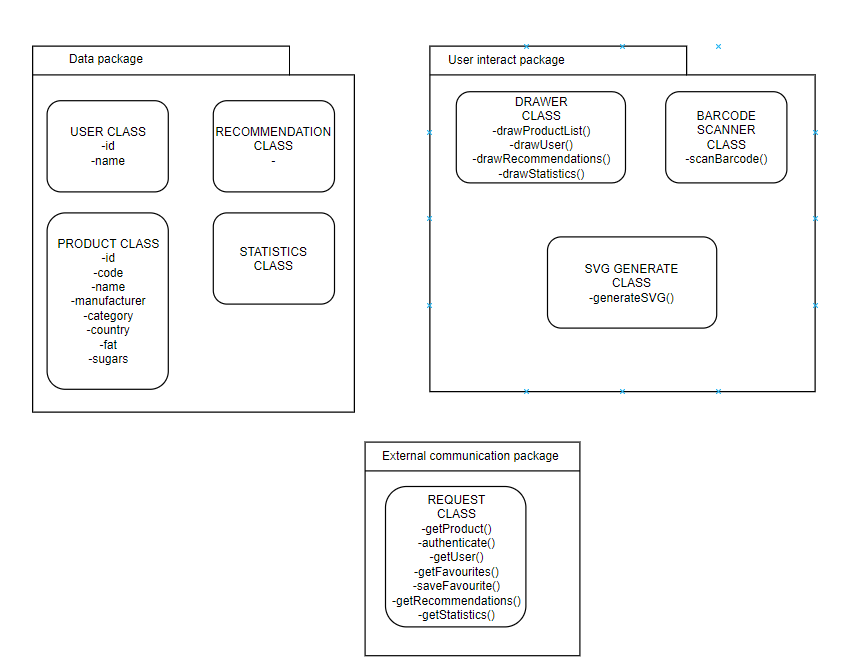
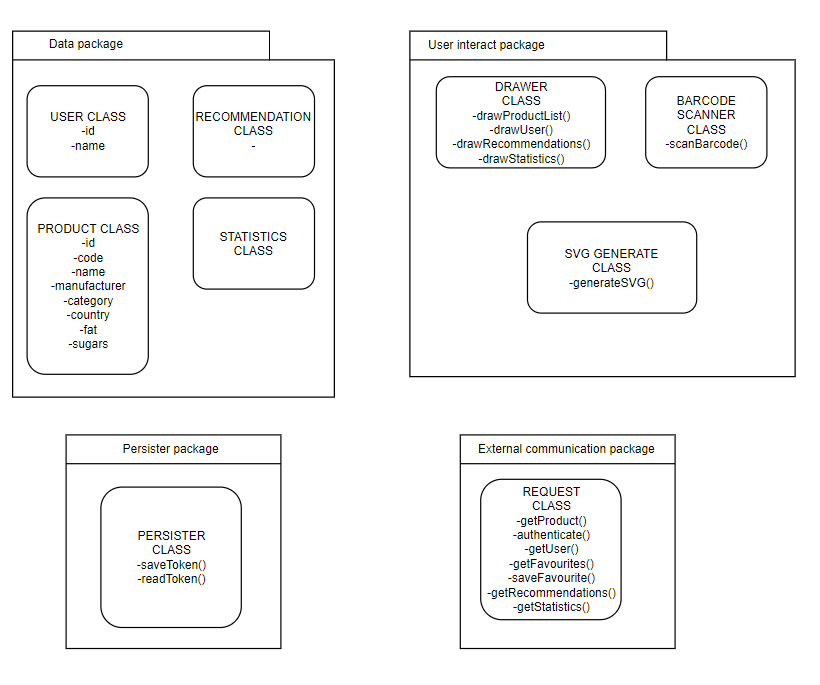
package section updated

diff --git a/htmlDocs/index.html b/htmlDocs/index.html
@@ -88,7 +88,7 @@
     <section id="The packages">
       <h2>The packages</h2>
       <p>
-        Nothing works just because we want it to, as such there is a need for classes and methods to make the app work as desired. For ease of understanding, we separated the packages in 3 categories: Data package (for the back end part of the app), user interact package (as the name says, the packages with which the user interacts), and the external communication package (because our api doesn't have all the information needed, requiring login from facebook and information of products from an external api)
+        Nothing works just because we want it to, as such there is a need for classes and methods to make the app work as desired. For ease of understanding, we separated the packages in 3 categories: Data package (for the back end part of the app), user interact package (as the name says, the packages with which the user interacts), and the external communication package (because our api doesn't have all the information needed, requiring login from facebook and information of products from an external api), and a persister package (to keep the data from disappearing after a refresh).
       </p>
       <p>
         <img src="./imgs/packages.png" />
